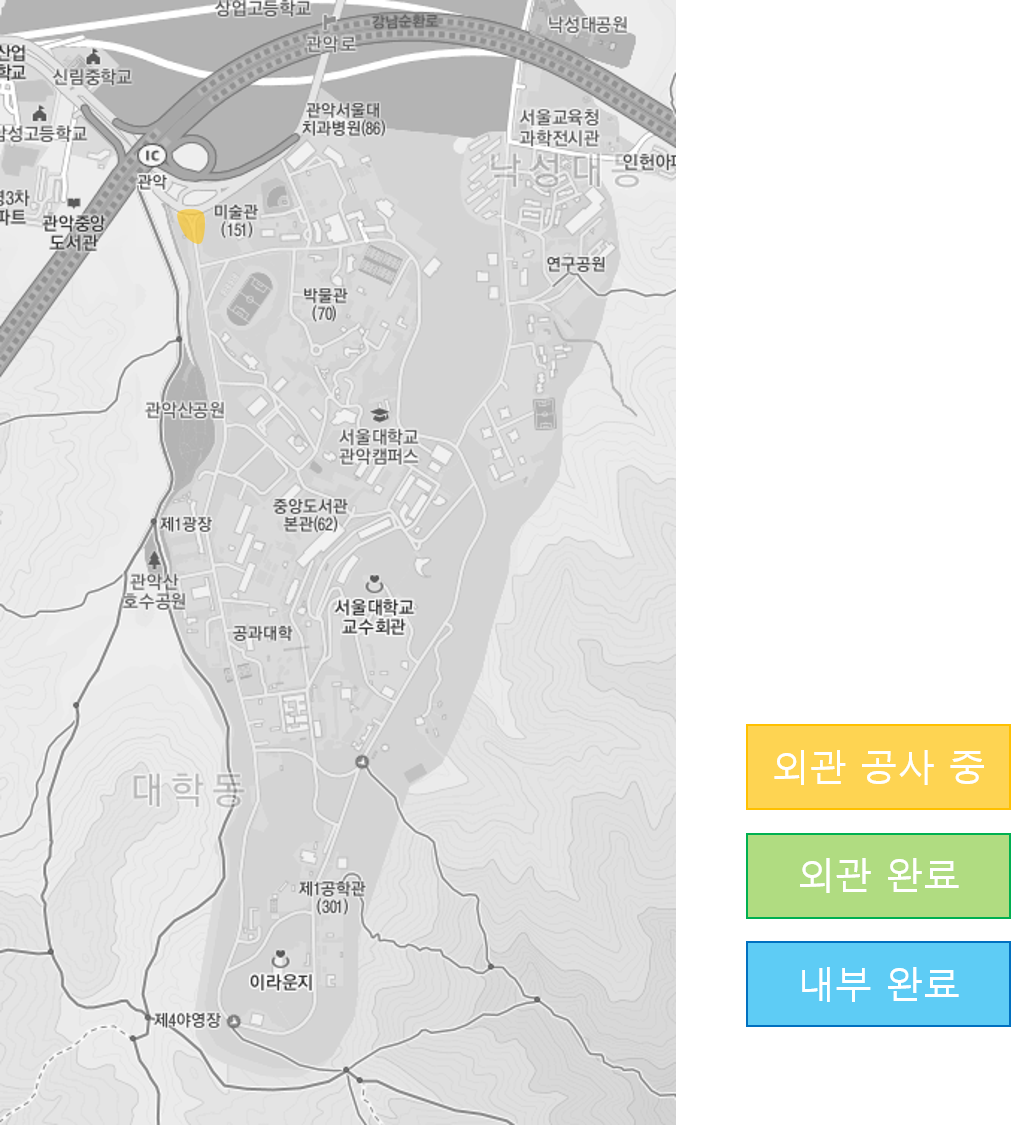
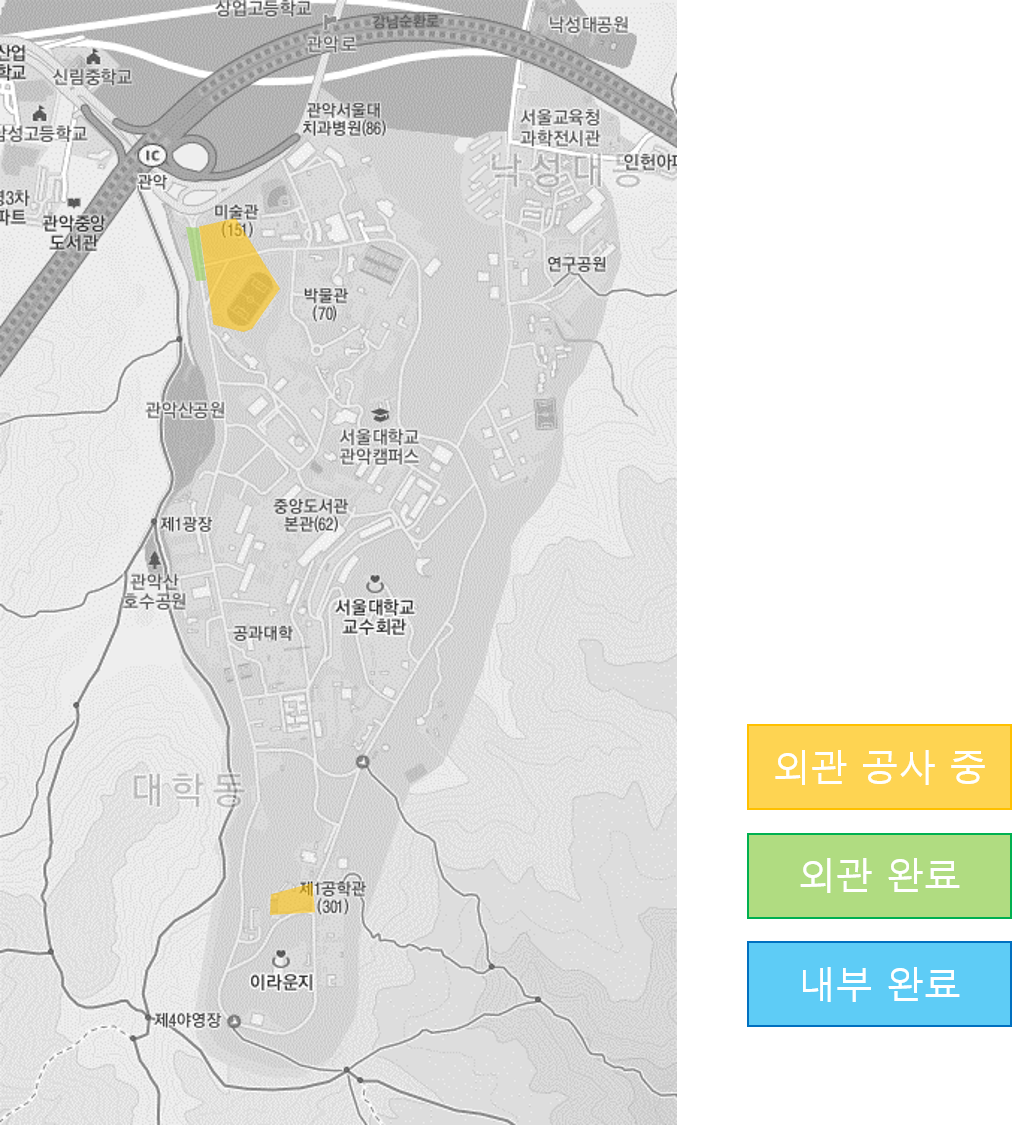
5/5 progress Update

Changed region(s): [[0.1533, 0.1867, 0.276, 0.3111], [0.2453, 0.7778, 0.3373, 0.84]]

diff --git a/guide.html b/guide.html
@@ -51,8 +51,8 @@
 										<p>FAQ</p>
 
 										<h3>Q. 비스듬한 건물은 어떻게 지어야 하나요?</h3>
-										<p> 비스듬한 건물은 외관을 살려서 실제로 대각선으로 건축하는 것을 기본으로 합니다.
-											이는 어디까지나 가이드이며, 건축하는 사람 재량껏 바꾸셔도 됩니다. </p>
+										<p> 정문 근처의 평지에 먼저 직각으로 건물을 짓습니다. 이후 관리자에게 보고하면 비스듬하게 복사하여
+										실제 위치에 붙여넣기될 것입니다. </p>
 
 
 										<h3> Q. 건물을 얼만큼 크게 해야하는지 가늠이 안갑니다. </h3>
@@ -61,8 +61,8 @@
 
 										<h3> Q. 도로는 이미 만들어진 것인가요? </h3>
 
-										<p> 아닙니다. 맵에서 검은색 테라코타로 만들어진 도로는 도로의 방향을 알려주는 가이드라인입니다. 회색 콘크리트로
-											도로를 지을 예정이며, 도로의 폭도 일정하게 다듬어주어야 합니다. </p>
+										<p> 아닙니다. 맵에서 검은색 테라코타로 만들어진 도로는 도로의 방향을 알려주는 가이드라인입니다. wolrdedit의
+										//sel poly를 이용하여 도로를 제작하고 있습니다. </p>
 
 										<h3> Q. 서버는 언제 열리나요? </h3>
 										<p> 5월 중으로 열릴 예정이며, 여름방학떄는 매일 열 생각입니다. 오픈 시간은 그날그날 오픈채팅방에서 공지하겠습니다. </p>

diff --git a/map.html b/map.html
@@ -48,9 +48,9 @@
 								<article>
 									<header>
 										<h2>MAP</h2>
-										<p>2020.4.13</p>
+										<p>2020.05.05./p>
 
-										<a href="#"><img src="images/snumap.png" alt="" /></a>
+										<a href="#"><img src="images/snumap.png" alt="" width="600"></a>
 									</header>
 
 

diff --git a/photo.html b/photo.html
@@ -48,7 +48,7 @@
 								<article>
 									<header>
 										<h2>PHOTO</h2>
-										<p>2020.4.13</p>
+										<p>2020.05.05</p>
 
 										<h3>No Photo Now :(</h3>
 
